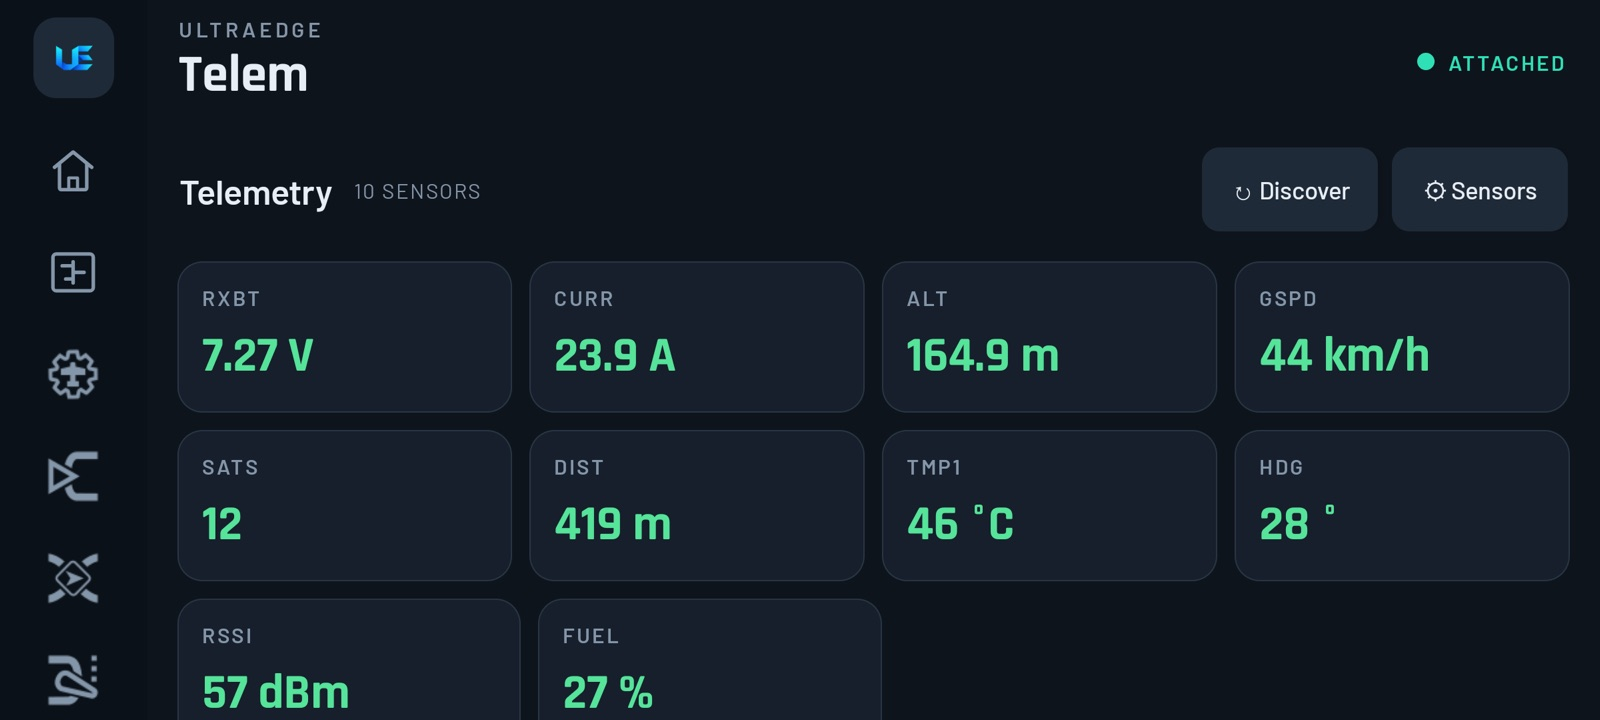
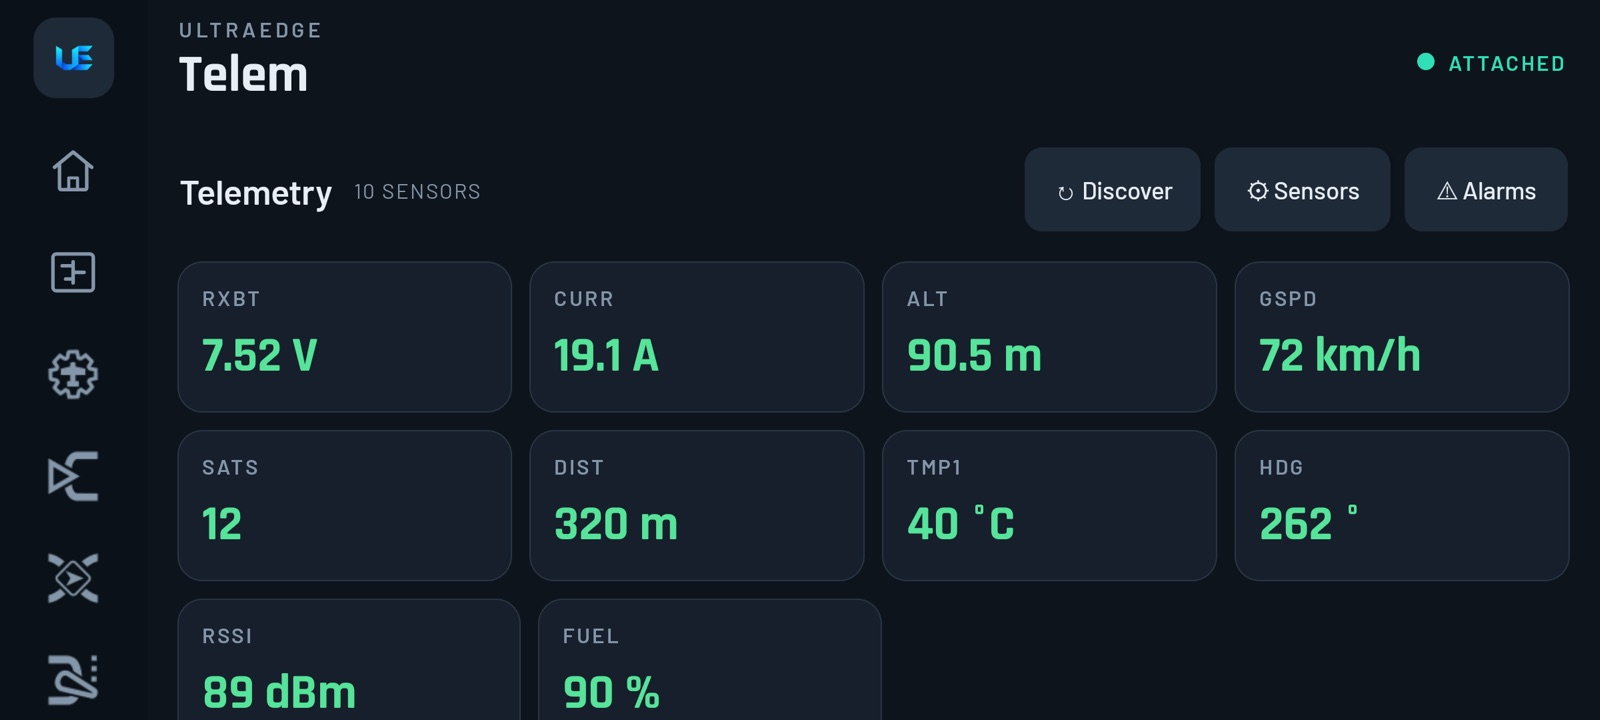
User Manual: telemetry alarm thresholds (Telem › Alarms)

diff --git a/UserManual/README.md b/UserManual/README.md
@@ -7,10 +7,10 @@ screen.
 
 ![The UltraEdge Home screen](media/home.jpg)
 
-> **Which version?** This manual covers **UltraEdge v1.2** (app 1.2.28+, firmware 1.1.16+), which is in beta testing
+> **Which version?** This manual covers **UltraEdge v1.2** (app 1.2.29+, firmware 1.1.17+), which is in beta testing
 > now. If you have the current Google Play release (app 1.2.13, firmware 1.1.2), most pages still apply. These parts
 > arrive with v1.2: companion-only builds for Pocket/Zorro/QX7, **My Radios**, the built-in **flight-log viewer** and
-> automatic log copying, **Model › Trainer**, the **timer switch**, **pre-flight switch and pot checks**, **GVar values per flight mode**, curve presets/mirror, the response preview, and the
+> automatic log copying, **Model › Trainer**, the **timer switch**, **pre-flight switch and pot checks**, **GVar values per flight mode**, **telemetry alarms**, curve presets/mirror, the response preview, and the
 > radio's own Special Function list.
 >
 > If you already fly EdgeTX, the manual
@@ -48,7 +48,7 @@ screen.
 | Set up **dual rates & expo** | [Recipe: rates & expo](13-recipes.md#dual-rates--expo-on-a-switch) |
 | Mix a **flying wing (elevons)**, **V-tail**, **flaperons** | [Recipes: wings & tails](13-recipes.md#elevon-flying-wing--delta-mixing) |
 | Reverse a servo, set endpoints / subtrim | [Outputs](06-inputs-mixes-outputs.md#outputs) |
-| Get a **battery-voltage / RSSI warning** | [Recipe: telemetry alarms](13-recipes.md#low-battery--link-quality-warning) |
+| Get a **battery-voltage / RSSI warning** | [Recipe: telemetry alarms](13-recipes.md#low-battery--link-quality-warning) · [Telem › ⚠ Alarms](04-home-monitor-telemetry.md#telemetry) |
 | Make a **timer** that runs with the throttle | [Recipe: throttle timer](13-recipes.md#a-flight-timer-that-runs-with-the-throttle) |
 | Run the **ExpressLRS Lua** (power, packet rate, model match, WiFi) | [ExpressLRS](12-lua-tools-sd-sounds.md#expresslrs-and-other-tools) |
 | Hear **voice call-outs** | [Recipe: call-outs](13-recipes.md#voice-call-outs-on-a-switch) |

diff --git a/UserManual/04-home-monitor-telemetry.md b/UserManual/04-home-monitor-telemetry.md
@@ -66,6 +66,16 @@ stick mode), **pots/sliders** with your radio's real names, and every **switch**
 - **↻ Discover** starts EdgeTX's sensor discovery. Sensors appear as the receiver reports them: RSSI, LQ, RxBt,
   GPS, current and more. Switch the receiver on and wait a few seconds.
 - **⚙ Sensors** opens the sensor list, where you can set each sensor's label, unit and precision.
+- **⚠ Alarms** sets the link alarms: a **low** and a **critical** threshold for the signal (EdgeTX's RSSI alarms),
+  and **Disable telemetry alarms**. The radio names them for your link: **RQly** (link quality, %) on ExpressLRS and
+  Crossfire, **RSSI** (dB) on most others. When the signal drops below a threshold, the radio warns, and so does the
+  phone.
+
+![Telemetry alarms](media/telemetry-alarms.jpg)
+
+> [!TIP]
+> **Starting points:** ELRS *RQly* low **70 %**, critical **50 %**. FrSky *RSSI* low **45 dB**, critical **42 dB**.
+> Range-check, then raise them if the warnings come too late.
 
 > [!TIP]
 > **No sensors showing up?** The receiver must be bound and powered, and telemetry must be enabled on the link. For

diff --git a/UserManual/13-recipes.md b/UserManual/13-recipes.md
@@ -133,7 +133,9 @@ Ailerons on two channels (for example **CH1** left, **CH5** right) let them droo
 2. **Logic › ＋ New switch** → **a<x**, V1 **RxBt**, V2 **3.5 V** (per-cell value × cells for a pack, or the receiver
    voltage), **Delay 2 s**.
 3. **Funcs › ＋ New function** → Trigger **L1** → **Play Track** "batlow" (or **Haptic**), **Repeat 10 s**.
-4. Link quality: **Logic** → **a<x · RQly · 70 %** → **Funcs** → Play Track "siglow" or Haptic.
+4. Link quality: the quickest way is **Telem › ⚠ Alarms** (low and critical thresholds; see
+   [Telemetry](04-home-monitor-telemetry.md#telemetry)). For a custom sound, use **Logic** → **a<x · RQly · 70 %**
+   → **Funcs** → Play Track "siglow" or Haptic.
 
 > [!TIP]
 > Values are entered **in real units** (volts, %). UltraEdge converts them to EdgeTX's internal raw numbers, so you

diff --git a/UserManual/15-safety-and-limits.md b/UserManual/15-safety-and-limits.md
@@ -23,7 +23,7 @@ radio. On **companion builds** (Pocket, Zorro, QX7) they keep their current valu
 |---|---|---|
 | **Bluetooth trainer pairing** (scan / connect) | Radio-side (TX16S) | The trainer *mode* is set in Model › Trainer |
 | Trim **values** | By design: set with the trim buttons | Trim *modes* per flight mode are editable |
-| Telemetry sensor **alarm thresholds** (EdgeTX's RSSI alarms) | Planned | Logical switch + Play Track/Haptic (see [recipe](13-recipes.md#low-battery--link-quality-warning)) |
+| **Vario** settings (source, range, centre) | Planned | — |
 | Creating a **blank** model | On the radio's model select | Or duplicate an existing model in Manage Models |
 | Global functions (radio-wide special functions) | Planned | Use model special functions |
 
